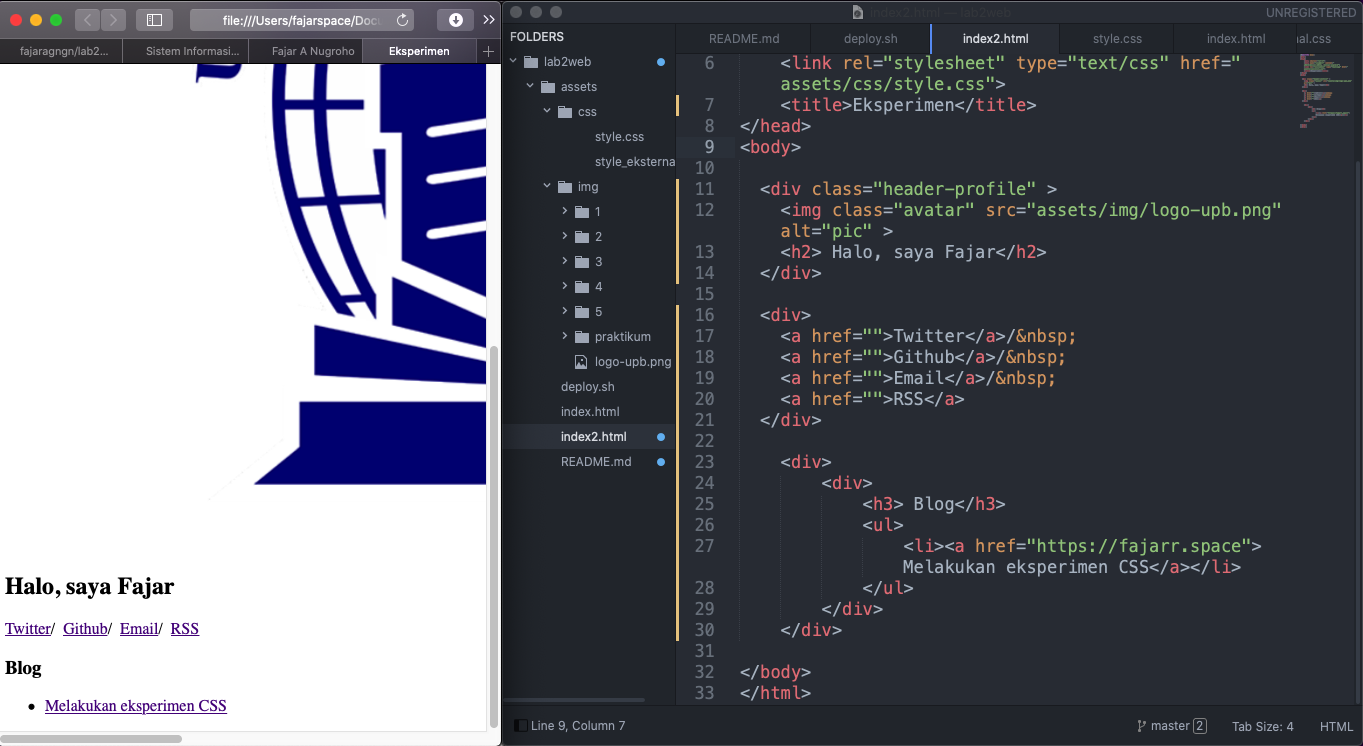
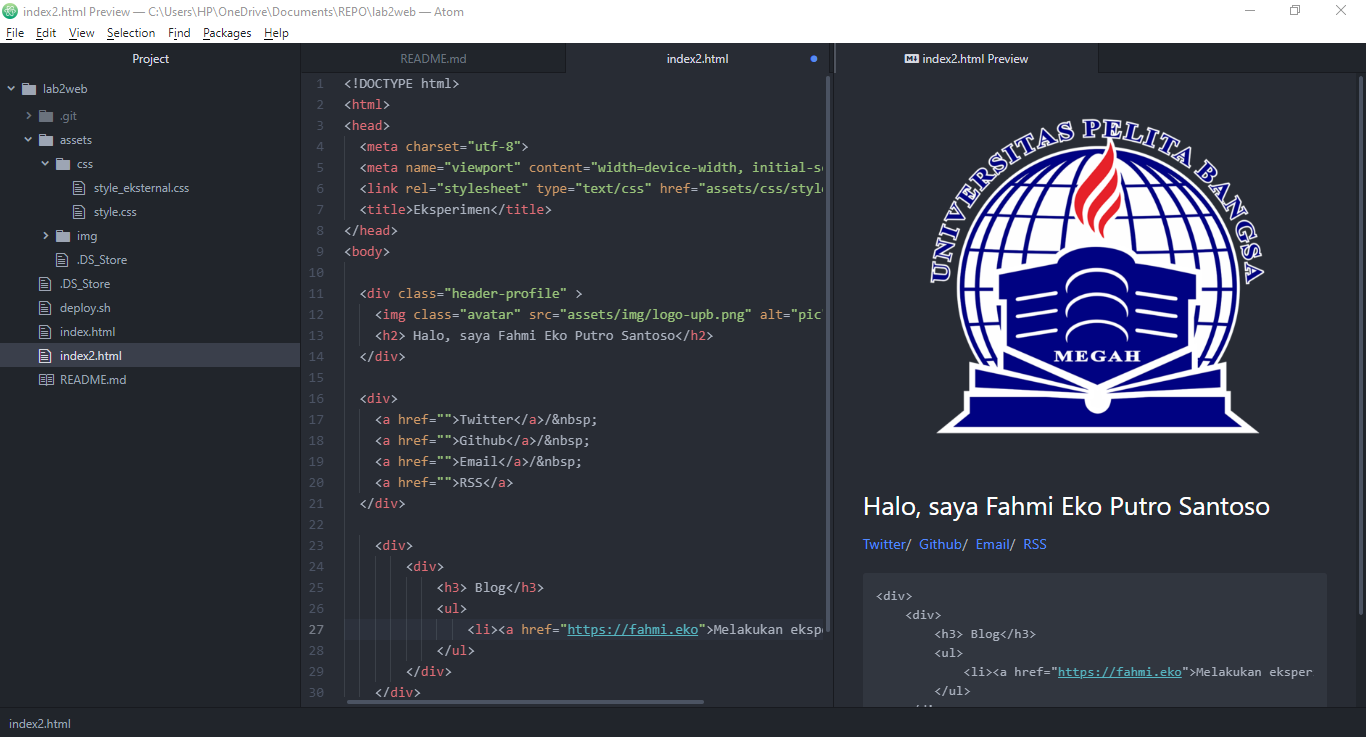
tugas kedua

diff --git a/index2.html b/index2.html
@@ -10,7 +10,7 @@
 
   <div class="header-profile" >
     <img class="avatar" src="assets/img/logo-upb.png" alt="pic" >
-    <h2> Halo, saya Fajar</h2>
+    <h2> Halo, saya Fahmi Eko Putro Santoso</h2>
   </div>
 
   <div>
@@ -19,15 +19,15 @@
     <a href="">Email</a>/&nbsp;
     <a href="">RSS</a>
   </div>
-  
+
     <div>
         <div>
             <h3> Blog</h3>
             <ul>
-                <li><a href="https://fajarr.space">Melakukan eksperimen CSS</a></li>
+                <li><a href="https://fahmi.eko">Melakukan eksperimen CSS</a></li>
             </ul>
         </div>
     </div>
-	
+
 </body>
 </html>

diff --git a/README.md b/README.md
@@ -4,7 +4,7 @@
 | Kelas   | TI.20.A.1        |
 
 ## Langkah langkah praktikum 2
-Membuka text editor, Saya menggunakan Sublime text
+Membuka text editor, Saya menggunakan Atom
 ![img1!](assets/img/praktikum/start.png)
 
 ## 1. Membuat Dokumen HTML
@@ -60,7 +60,7 @@ Kemudian simpan kembali dan refresh browser untuk melihat perubahannya
 4. Pada sebuah elemen HTML terdapat ID dan Class, apabila masing-masing selector tersebut terdapat deklarasi CSS, maka deklarasi manakah yang akan ditampilkan pada browser? Berikan penjelasan dan contohnya! ( `<p id="paragraf-1" class="text-paragraf">` )
 
 ## Jawab
-1. Saya akan mengubah dan menambah properti dan nilai pada kode CSS, dimulai dari membuat kerangka html nya
+1. Saya akan mengubah lalu menambahkan properti dan nilai pada kode CSS, dimulai dari membuat kerangka html nya
 
 	![img1!](assets/img/praktikum/1.png)
 
@@ -91,7 +91,7 @@ Kemudian simpan kembali dan refresh browser untuk melihat perubahannya
 
 3. Setelah dilakukan pengujian, deklarasi CSS Inline lebih dahulu tampil di browser, itu dikarenakan permintaan HTTP yang sangat kecil memungkinkan untuk ditampilkan dahulu
 
-	Berikut merupakan hasil pengujian deklarasi CSS
+	Berikut ini merupakan hasil dari pengujian deklarasi CSS
 
 	CSS Inline `blue`
 
@@ -101,6 +101,6 @@ Kemudian simpan kembali dan refresh browser untuk melihat perubahannya
 
 	![img3!](assets/img/praktikum/3.png)
 
-4. Deklarasi `id="paragraf-1"` akan ditampilkan pada browser, karena selektor id lebih spesifik dari class atau bahkan element P itu sendiri, kecuali jika kita menambahkan property pada inline element P maka selektor id tersebut akan tertimpa, karena inline lebih spesifik daripada id, class, dan element
+4. Deklarasi `id="paragraf-1"` akan ditampilkan pada browser, karena selektor id lebih spesifik dari class atau bahkan element P itu sendiri, kecuali jika kita menambahkan property pada inline element P maka selektor id tersebut akan tertimpa, karena inline lebih spesifik dari pada id, class, dan element
 
 	![img4!](assets/img/praktikum/4.png)
